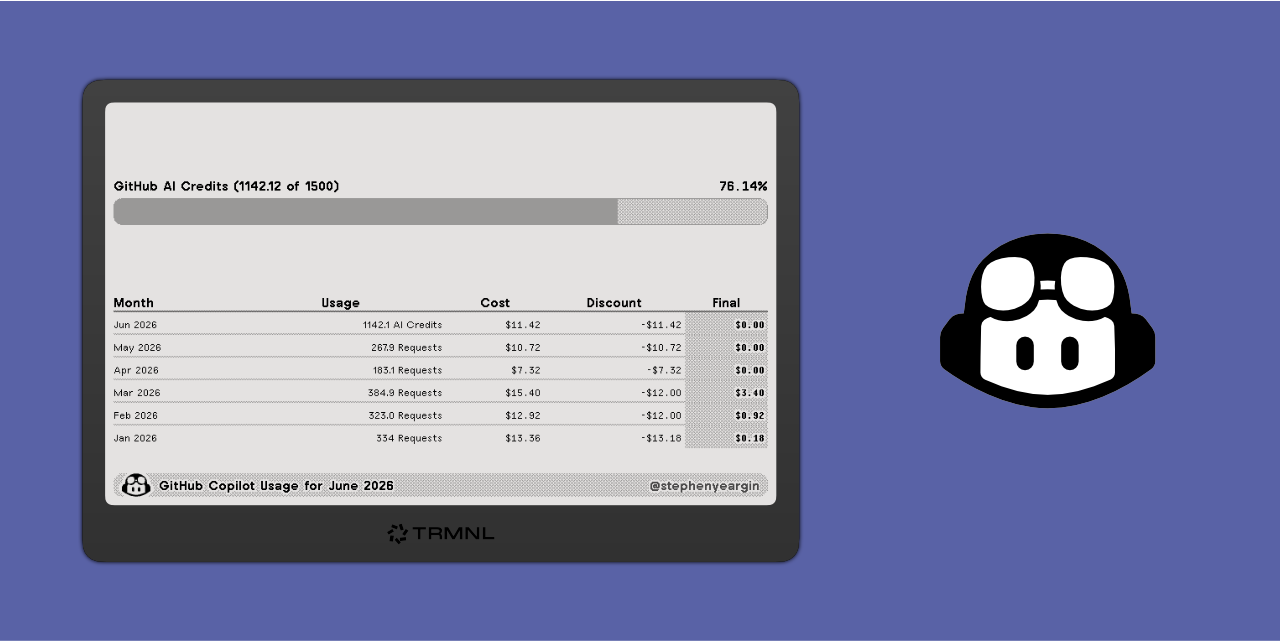
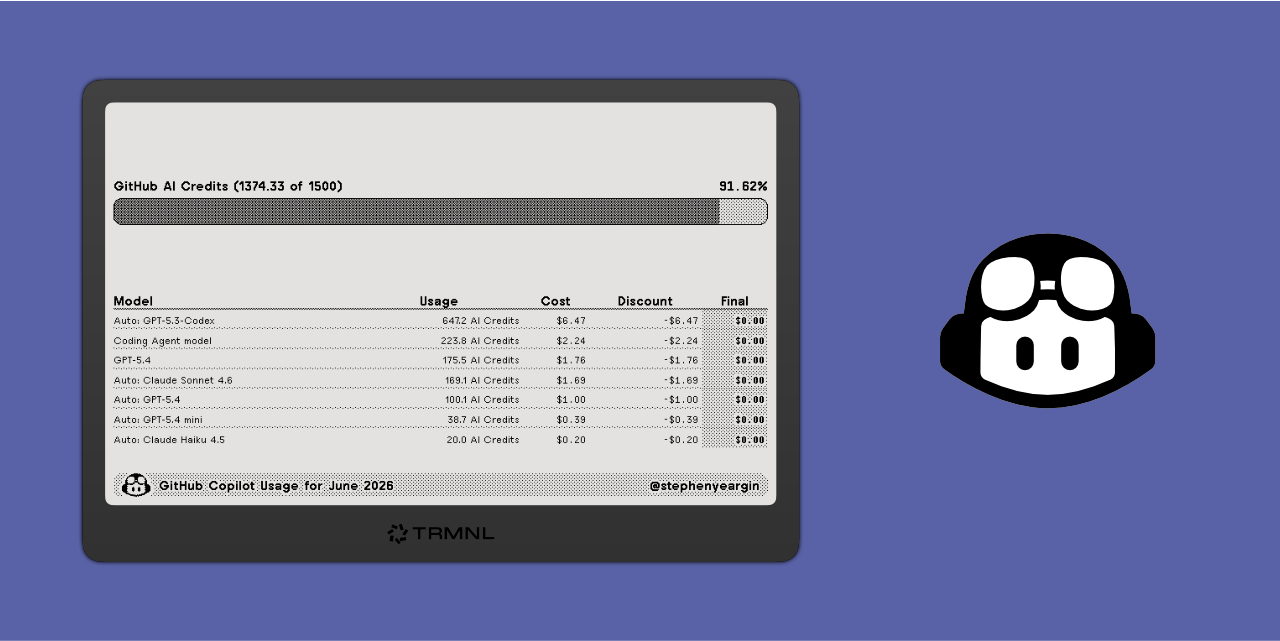
Restore model usage table

Changed region(s): [[0.0938, 0.468, 0.625, 0.78], [0.0625, 0.2808, 0.625, 0.3744]]

diff --git a/src/transform.js b/src/transform.js
@@ -7,7 +7,7 @@ function pickUsageItem(item) {
   return {
     model: item?.model ?? item?.sku,
     sku: item?.sku,
-    unitType: item?.unitType,
+    unitType: friendlyUnitType(item?.unitType),
     pricePerUnit: toNumber(item?.pricePerUnit),
     grossQuantity: toNumber(item?.grossQuantity),
     grossAmount: toNumber(item?.grossAmount),
@@ -42,7 +42,7 @@ function pickMonthUsage(monthUsage) {
 }
 
 function friendlyUnitType(raw) {
-  const map = { AICredits: 'AI Credits', Requests: 'Requests' };
+  const map = { 'ai-credits': 'AI Credits', AICredits: 'AI Credits', Requests: 'Requests' };
   return map[raw] ?? raw;
 }
 
@@ -83,18 +83,32 @@ function pickHistory(usageData) {
   return Object.values(byMonth).sort((a, b) => b.date.localeCompare(a.date));
 }
 
+function pickModelUsage(data) {
+  const usageItems = Array.isArray(data?.usageItems)
+    ? data.usageItems
+    : Array.isArray(data?.data?.usageItems)
+      ? data.data.usageItems
+      : [];
+  const items = usageItems.map(pickUsageItem);
+  items.sort((a, b) => {
+    if (b.netAmount !== a.netAmount) return b.netAmount - a.netAmount;
+    return b.grossAmount - a.grossAmount;
+  });
+  return items;
+}
+
 function transform(input) {
   const githubUser = input?.IDX_0 ?? {};
   const currentMonth = pickMonthUsage(input?.IDX_1 ?? {});
   const previousMonth = pickMonthUsage(input?.IDX_2 ?? {});
   const history = pickHistory(input?.IDX_3 ?? {});
+  const modelUsage = pickModelUsage(input?.IDX_4 ?? {});
 
   return {
-    IDX_0: {
-      login: githubUser?.login,
-    },
+    IDX_0: { login: githubUser?.login },
     IDX_1: currentMonth,
     IDX_2: previousMonth,
     IDX_3: history,
+    IDX_4: modelUsage,
   };
 }

diff --git a/README.md b/README.md
@@ -4,9 +4,11 @@
 
 ![promo](assets/promo.png)
 
-### Screenshot
+### Screenshots
 
 ![screenshot](assets/screenshot.png)
+
+![screenshot-2](assets/screenshot-2.png)
 
 ## Development
 